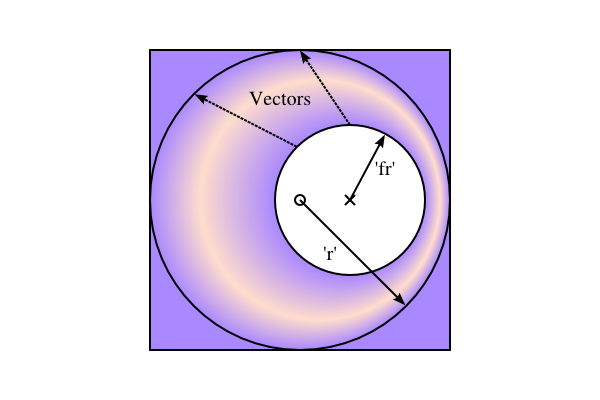
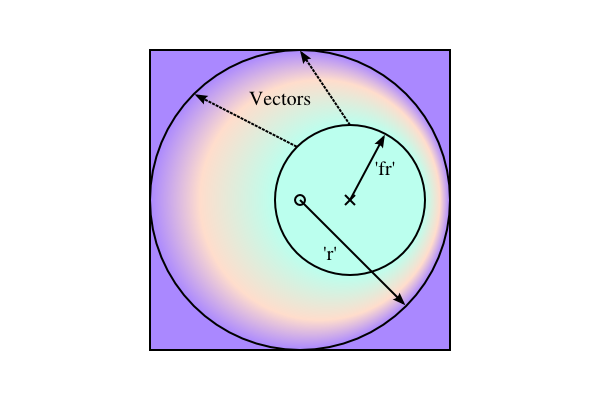
Radial gradients: add new figure, correct one figure, small text changes.

Changed region(s): [[0.36, 0.21, 0.75, 0.78]]

diff --git a/master/pservers.html b/master/pservers.html
@@ -617,7 +617,10 @@ shows how to fill a rectangle by referencing a linear gradient paint server.</p>
 
   <dl class="attrdef-list-svg2">
 
-    <dt id="RadialGradientElementGradientUnitsAttribute"></dt>
+    <dt id="RadialGradientElementGradientUnitsAttribute">
+      <span class="adef">gradientUnits</span> =
+      "<span class="attr-value">userSpaceOnUse | objectBoundingBox</span>"
+    </dt>
     <dd>
 
       <p>
@@ -627,7 +630,9 @@ shows how to fill a rectangle by referencing a linear gradient paint server.</p>
 
       <dl class="attrdef-svg2">
 
+	<!--
 	<dt>Value</dt>                <dd>userSpaceOnUse | objectBoundingBox</dd>
+	-->
 	<dt><a>Lacuna value</a></dt>  <dd>objectBoundingBox</dd>
 	<dt><a>Animatable</a></dt>    <dd>yes</dd>
 
@@ -793,7 +798,8 @@ shows how to fill a rectangle by referencing a linear gradient paint server.</p>
     <dd>
 
       <p>
-  <a>'fx'</a>, <a>'fy'</a>, and <a>'fr'</a> define the start circle for the radial gradient. The
+	<a>'fx'</a>, <a>'fy'</a>, and <a>'fr'</a> define the start
+	circle for the radial gradient. The
         gradient will be drawn such that the
         0% <a href="#GradientStops">gradient stop</a> is mapped
         to the perimeter of this start circle.
@@ -825,6 +831,9 @@ shows how to fill a rectangle by referencing a linear gradient paint server.</p>
 	  of the innermost circle (<a>'fx'</a>,<a>'fy'</a>). The
 	  dashed lines show two gradient vectors. Vectors connect
 	  corresponding points on the inner and outer most circles.
+	  The region outside the outer circle is painted with the the
+	  last <a>'stop-color'</a> while the region inside the inner
+	  circle is painted with the first <a>'stop-color'</a>.
 	</p>
       </div>
 
@@ -869,7 +878,7 @@ shows how to fill a rectangle by referencing a linear gradient paint server.</p>
       </p>
 
       <p>
-                A negative value is an error
+        A negative value is an error
         (see <a href="implnote.html#ErrorProcessing">Error
         processing</a>).
       </p>
@@ -993,6 +1002,15 @@ shows how to fill a rectangle by referencing a linear gradient paint server.</p>
 
 <h4 id="RadialGradientNotes">Notes on radial gradients</h4>
 
+<p class="note">Changed in SVG 2. SVG 1.1 required that the focal
+point, if outside the end circle, be moved to be on the end
+circle. The change was made to align with Canvas.</p>
+
+<p class="annotation">Allowing the focal point to lie outside the end
+circle was resolved at the
+<a href="http://www.w3.org/2012/09/19-svg-minutes.html#item01">Rigi
+Kaltbad working group meeting</a>.</p>
+
 <p>If the start circle defined by <a>'fx'</a>, <a>'fy'</a> and <a>'fr'</a> lies
 outside the end circle defined by <a>'cx'</a>, <a>'cy'</a>, and <a>'r'</a>, effectively
 a cone is created, touched by the two circles. Areas outside the cone stay untouched by
@@ -1001,8 +1019,18 @@ the gradient (transparent black).</p>
 <p>If the start circle fully overlaps with the end circle, no
 gradient is drawn. The area stays untouched (transparent black).</p>
 
-<p class="issue">What color space is the weighted average performed
-(linearRGB/sRGB)?</p>
+<div class="figure">
+  <img
+     alt="Image of a radial gradient with the focal (start circle) outside
+	  the start circle."
+     src="images/pservers/radial_gradient_focus_reflect.png"/>
+
+  <p class="caption">A radial gradient with the focal (start) circle
+    outside the start circle. The focal circle is the
+    larger circle on the left. The gradient has
+    <span class="attr-value">spreadMethod="reflect"</span>.
+  </p>
+</div>
 
 <div class="figure">
   <img
@@ -1012,12 +1040,22 @@ gradient is drawn. The area stays untouched (transparent black).</p>
 
   <p class="caption">Two radial gradients with
   <span class="attr-value">spreadMethod="repeat"</span>. On the
-  left, the focus is just inside the right side of the circle
+  left, the focal point is just inside the right side of the circle
   defined by by <a>'cx'</a>, <a>'cy'</a>, and <a>'r'</a>. On the
-  right, the focus is on the circle. In this case, the area
+  right, the focal point is on the circle. In this case, the area
   painted to the right of the circumference has a fill equal to
   the weighted average of the colors in the gradient vector.</p>
 </div>
+
+<p class="note">The treatment of the area to the right of the gradient
+in the right-hand side of the above figure is different from that of
+Canvas where the area would be transparent black. The difference is to
+maintain compatibility with SVG 1.1.</p>
+
+<p class="annotation">The color space for the weighted average is the
+same as in which the gradient is interpolated. See
+<a href="http://www.w3.org/2012/09/19-svg-minutes.html#item01">Rigi
+Kaltbad working group meeting</a>.</p>
 
 <p><a href="styling.html#SVGStylingProperties">Properties</a>
 inherit into the <a>'radialGradient'</a> element from its ancestors;
